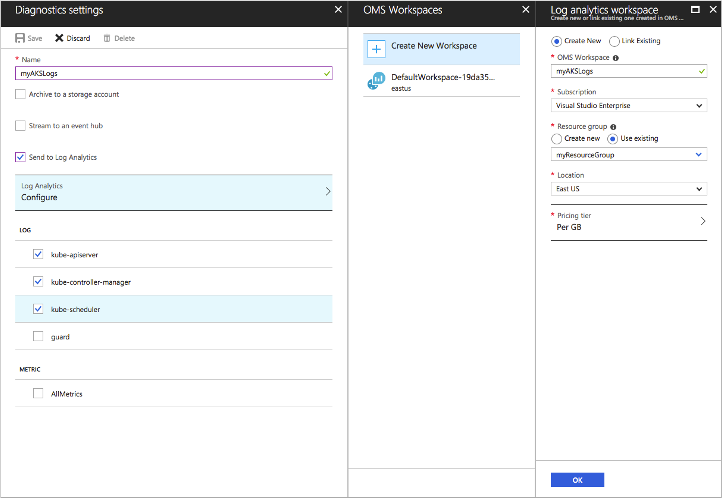
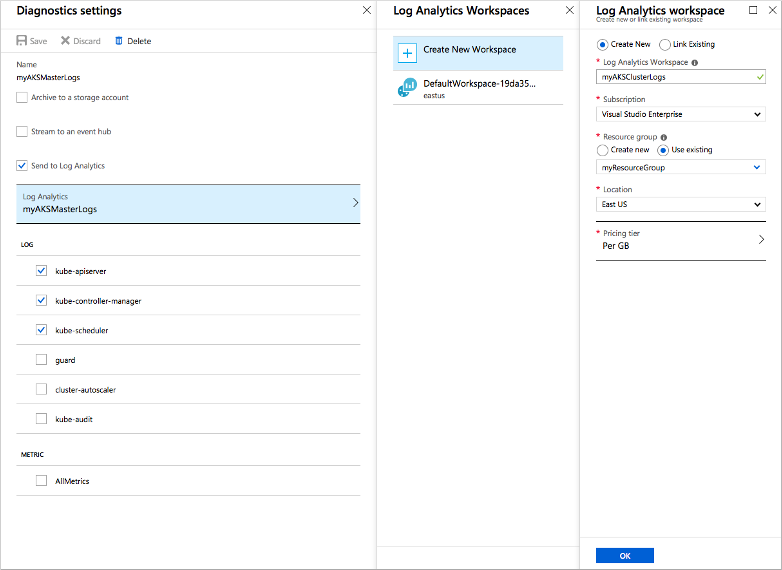
[AKS] Updating for addition of audit logs

diff --git a/articles/aks/view-master-logs.md b/articles/aks/view-master-logs.md
@@ -6,7 +6,7 @@ author: iainfoulds
 
 ms.service: container-service
 ms.topic: article
-ms.date: 10/25/2018
+ms.date: 01/03/2019
 ms.author: iainfou
 ---
 
@@ -27,18 +27,15 @@ Log Analytics is enabled and managed in the Azure portal. To enable log collecti
 1. Select the resource group for your AKS cluster, such as *myResourceGroup*. Don't select the resource group that contains your individual AKS cluster resources, such as *MC_myResourceGroup_myAKSCluster_eastus*.
 1. On the left-hand side, choose **Diagnostic settings**.
 1. Select your AKS cluster, such as *myAKSCluster*, then choose to **Turn on diagnostics**.
-1. Enter a name, such as *myAKSLogs*, then select the option to **Send to Log Analytics**.
+1. Enter a name, such as *myAKSClusterLogs*, then select the option to **Send to Log Analytics**.
     * Choose to *Configure* Log Analytics, then select an existing workspace or **Create New Workspace**.
     * If you need to create a workspace, provide a name, a resource group, and a location.
-1. In the list of available logs, select the logs you wish to enable, such as *kube-apiserver*, *kube-controller-manager*, and *kube-scheduler*. You can return and change the collected logs once Log Analytics are enabled.
+1. In the list of available logs, select the logs you wish to enable. By default, the *kube-apiserver*, *kube-controller-manager*, and *kube-scheduler* logs are enabled. You can enable additional logs, such as *kube-audit* and *cluster-autoscaler*. You can return and change the collected logs once Log Analytics are enabled.
 1. When ready, select **Save** to enable collection of the selected logs.
 
 The following example portal screenshot shows the *Diagnostics settings* window and then option to create an Log Analytics workspace:
 
 ![Enable Log Analytics workspace for Log Analytics of AKS cluster](media/view-master-logs/enable-oms-log-analytics.png)
-
->[!NOTE]
->OMS workspaces are now referred to as Log Analytics workspaces.
 
 ## Schedule a test pod on the AKS cluster
 
